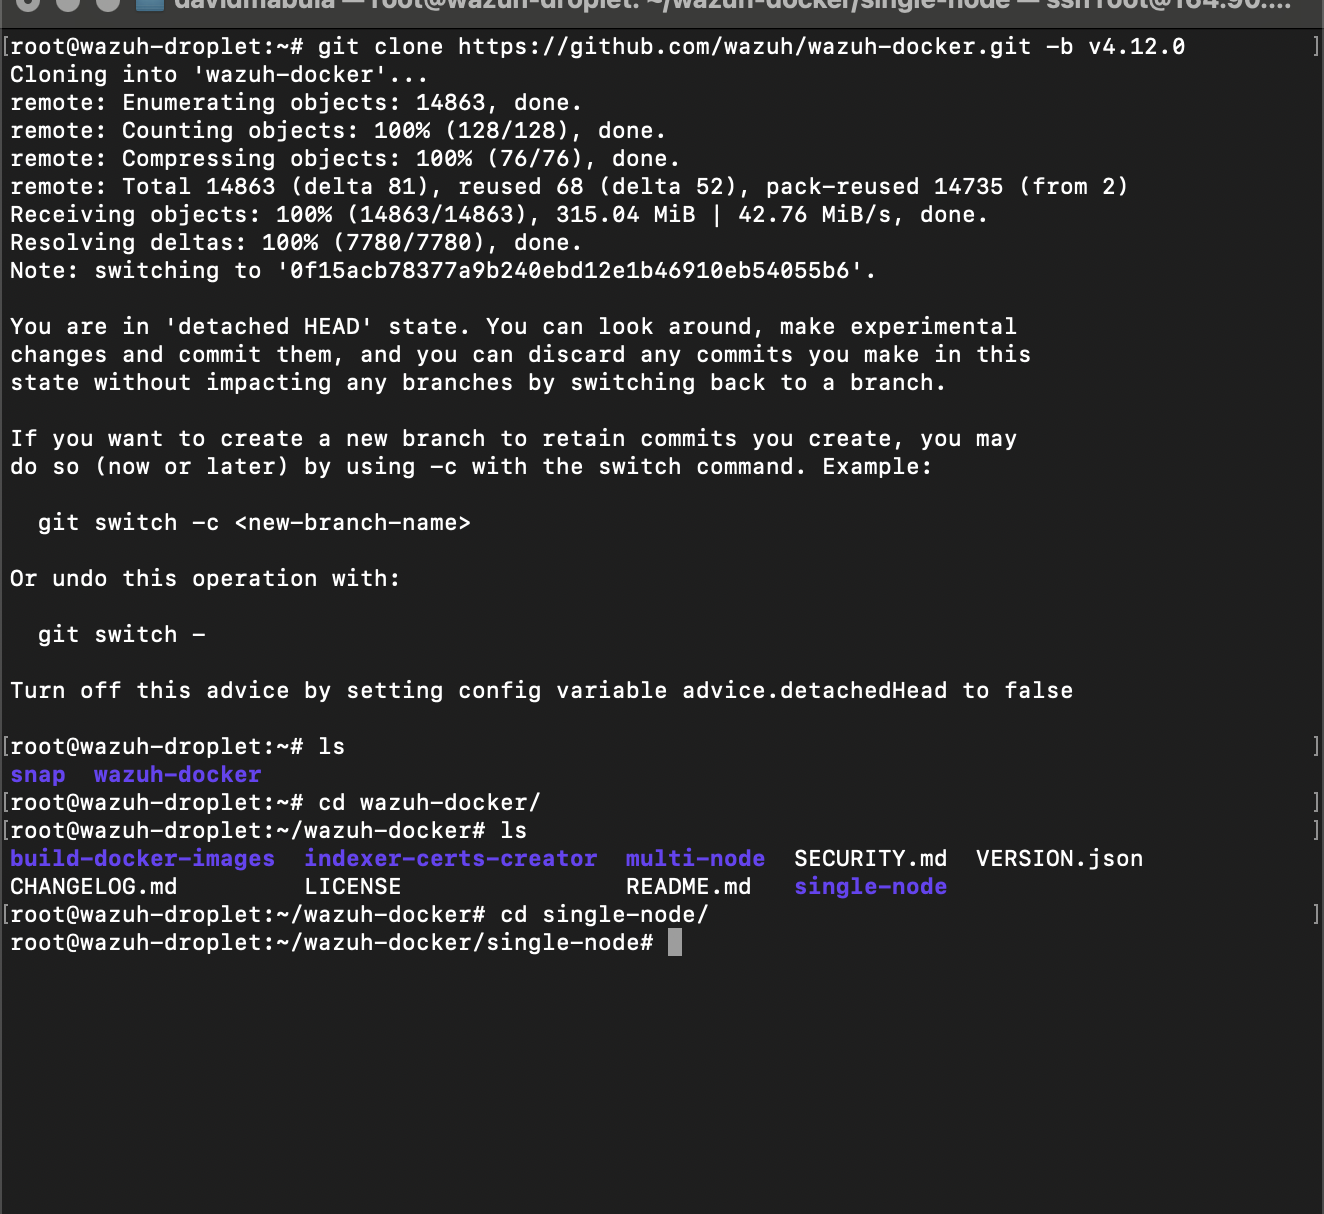
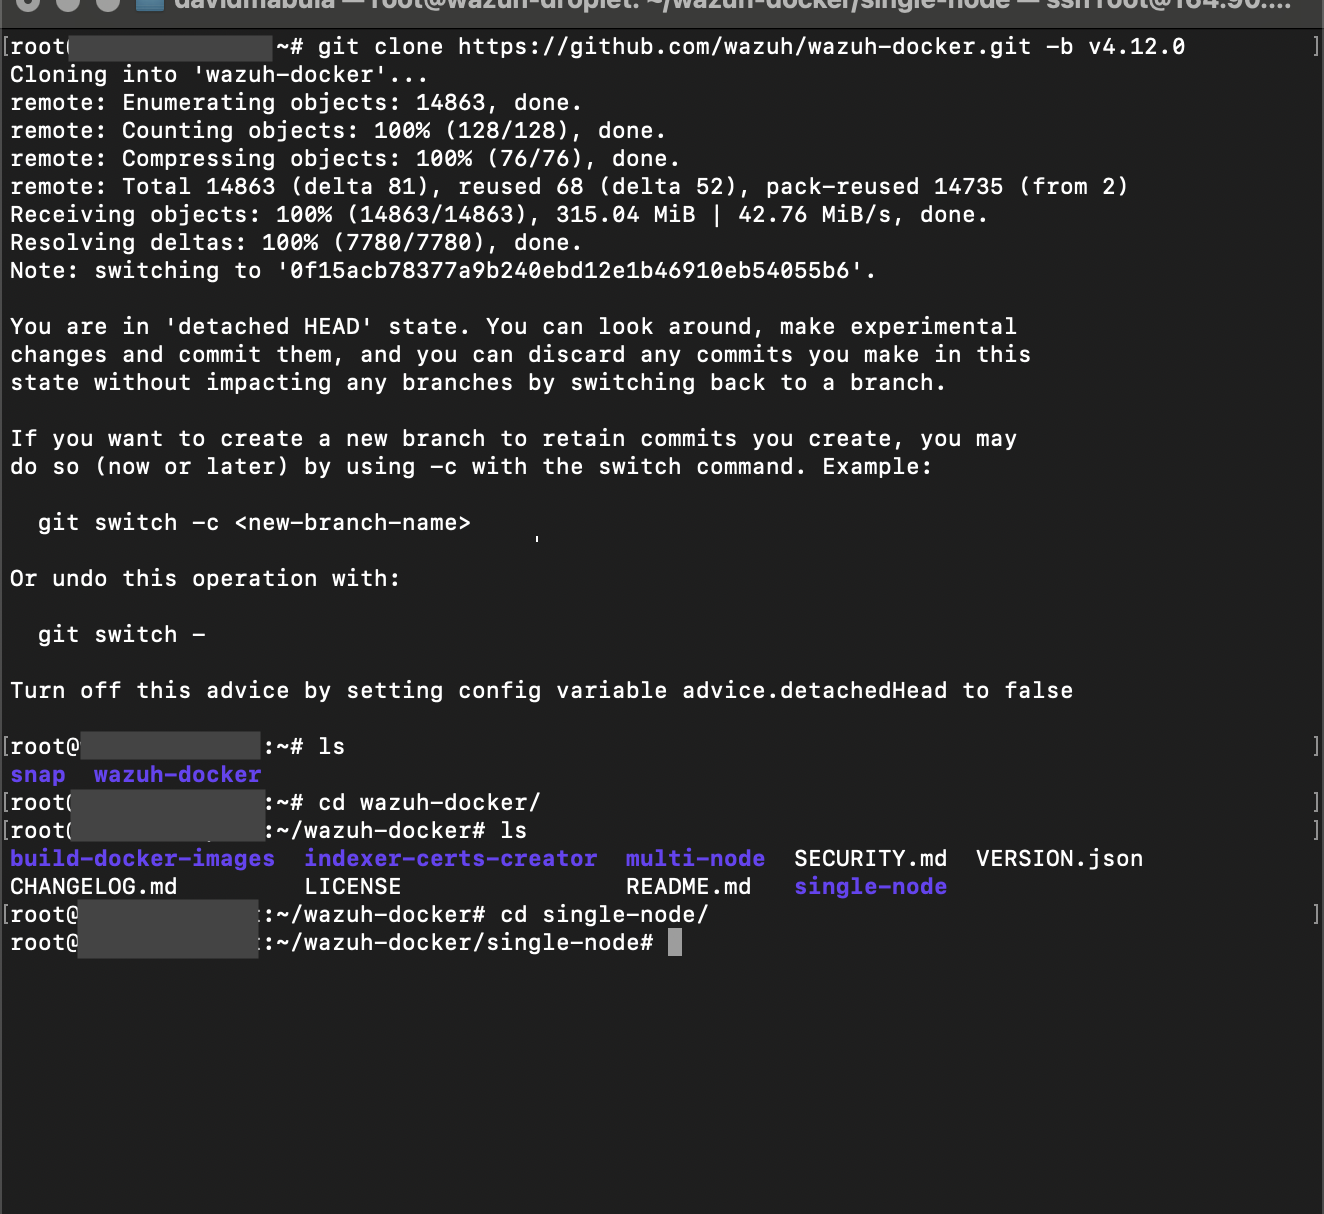
successfully deployed and test wazuh siem

Changed region(s): [[0.031, 0.5791, 0.2168, 0.701], [0.0619, 0.7315, 0.2168, 0.7924], [0.031, 0.0305, 0.2168, 0.061]]

diff --git a/soc-lab-day1.md b/soc-lab-day1.md
@@ -6,10 +6,25 @@ As a cybersecurity enthusiast and aspiring SOC analyst, I'm documenting my journ
 
 Wazuh is a robust, free, open-source Security Information and Event Management (SIEM) and Extended Detection and Response (XDR) platform. It provides real-time visibility into IT infrastructure by aggregating, analyzing, and correlating security data from endpoints, servers, and cloud environments. Wazuh aids organizations in threat detection, integrity monitoring, and compliance management.
 
+## 🧰 Tools Used
+
+For this first day of the SOC lab setup, I utilized the following tools:
+
+| Tool | Purpose |
+|------|---------|
+| **Wazuh** | Core SIEM/XDR platform for security monitoring and alert generation |
+| **Docker** | Container platform to deploy and manage Wazuh services |
+| **Docker Compose** | Tool for defining and running multi-container Docker applications |
+| **Hydra** | Password cracking and brute-force testing tool |
+| **DigitalOcean** | Cloud platform hosting the Wazuh server |
+| **VMware Workstation** | Virtualization platform for Windows and Kali Linux agents |
+| **Remote Desktop Protocol (RDP)** | Protocol enabling remote access to Windows system |
+
 ## 🖥 Lab Environment Overview
 
 ### Server:
 - **Wazuh Server**: DigitalOcean Droplet (Ubuntu 22.04)
+  - **Specs**: 8GB RAM, 2 vCPU
 
 ### Agents:
 - **Windows 11 VM**: VMware Workstation
@@ -110,12 +125,36 @@ netsh advfirewall firewall add rule name="Allow RDP" dir=in action=allow protoco
 
 - Verify RDP service is active using an NMAP scan to ensure port 3389 is listening
 
+## 📊 Wazuh Dashboard Overview
+
+After successfully deploying both agents, I could verify their connectivity and status in the Wazuh dashboard. The dashboard provides a comprehensive view of all connected agents, their status, and security metrics.
+
+### Connected Agents
+
+The Agents view shows both Windows and Kali Linux systems successfully registered and reporting to the Wazuh server:
+
+![Wazuh Agents Overview](images/wazuh-agents-overview.png)
+
+### Dashboard Interface
+
+The main dashboard provides a high-level overview of the security posture, including:
+
+- Alert summaries by severity level
+- MITRE ATT&CK framework mapping
+- Compliance status
+- Vulnerability statistics
+- Events count evolution
+
+![Wazuh Main Dashboard](images/wazuh-main-dashboard.png)
+
+This interface serves as the central monitoring point for security events across all connected endpoints in our SOC lab.
+
 ## 🔥 Simulating Brute-Force Attack Using Hydra
 
 To test Wazuh's detection capabilities, I simulated a brute-force attack from Kali Linux targeting the Windows VM:
 
 ```bash
-hydra -t 4 -V -f -l <Username> -P /usr/share/wordlists/rockyou.txt rdp://<Windows VM IP Address>
+hydra -t 4 -V -f -l creat -P /usr/share/wordlists/rockyou.txt rdp://<Windows VM IP Address>
 ```
 
 Parameters used:
